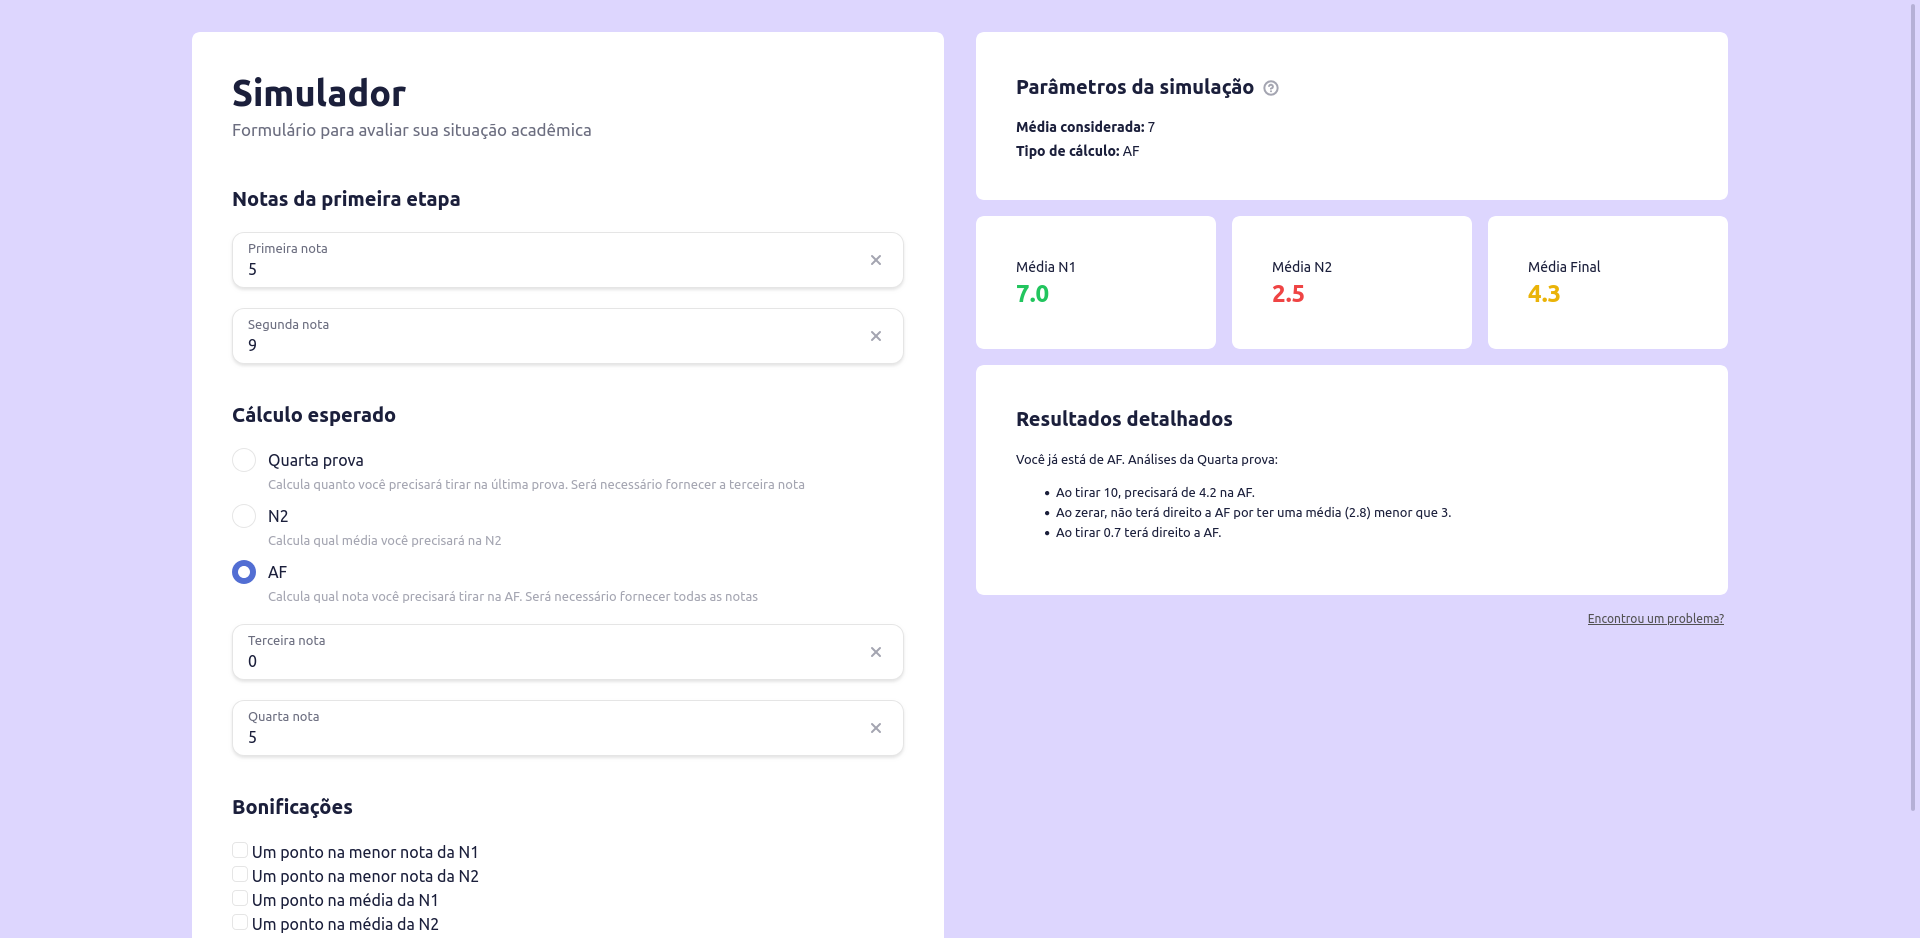
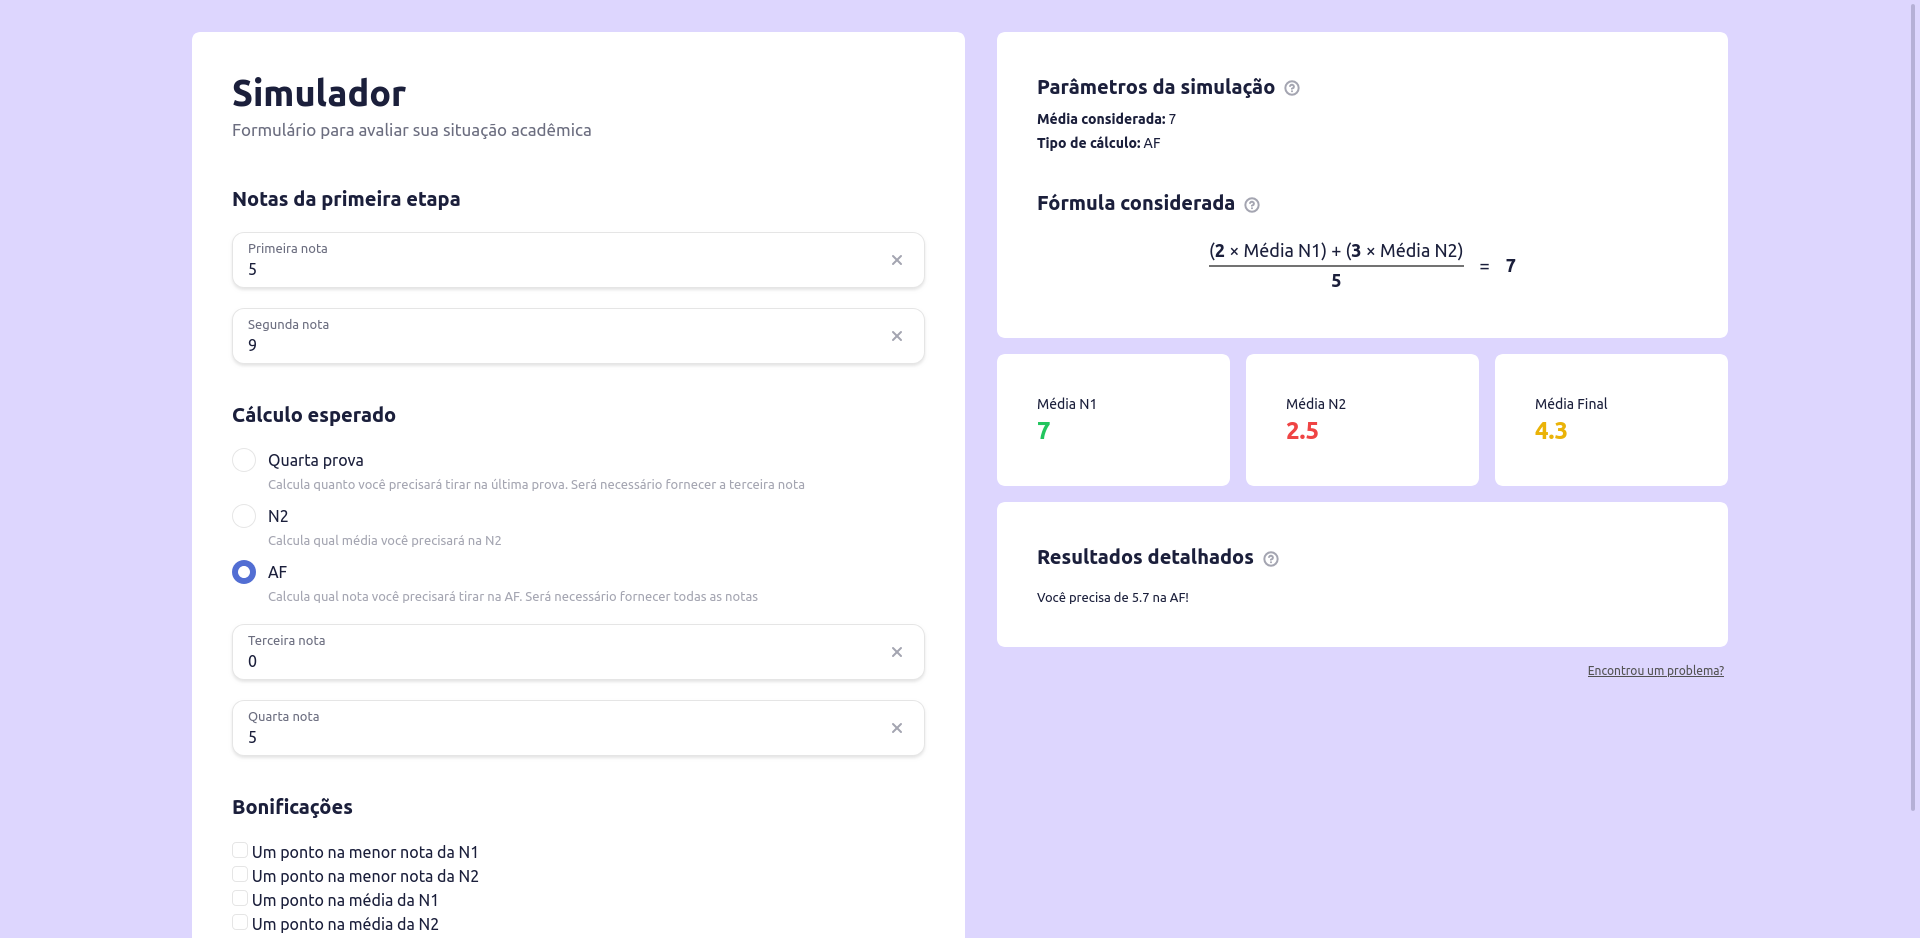
docks (Projetos): RatingUp

Changed region(s): [[0.4688, 0.0309, 0.9062, 1.0]]

diff --git a/src/app/pages/projetos/projetos.component.ts b/src/app/pages/projetos/projetos.component.ts
@@ -29,6 +29,13 @@ export class ProjetosComponent implements OnInit {
       url: "https://theotokos.onrender.com",
       src: "Theotokos.png"
     },
+	{
+      nome: "RatingUp",
+      descricao: "Plataforma web criada com o propósito de reduzir a lacuna no aprendizado de xadrez na população brasileira, tornando o ensino do jogo mais acessível, moderno e envolvente. O ensino é estruturado em níveis organizados como páginas de um livro digital, onde o usuário avança fase por fase, desbloqueando novos conteúdos conforme evolui.",
+      tecnologias: ["Angular", "Typescript", "Java", "Spring", "MinIO", "Docker", "PostgreSQL", "Swagger", "RobotFramework", "NGINX"],
+	  repositorio: "https://github.com/Camilay3/RatingUp",
+      src: "Ratingup.png"
+    },
     {
       nome: "Calculadora de notas",
       descricao: "Pensado nos alunos que utilizam o sistema de notas do IFCE, a calculadora foi criada para facilitar as simulações sobre a vida acadêmica.",